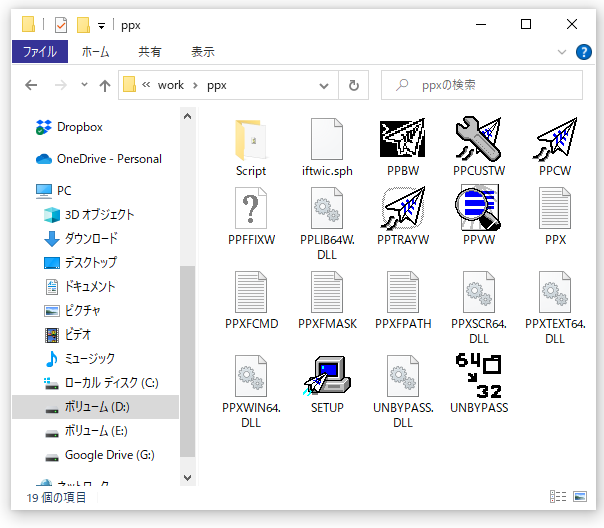
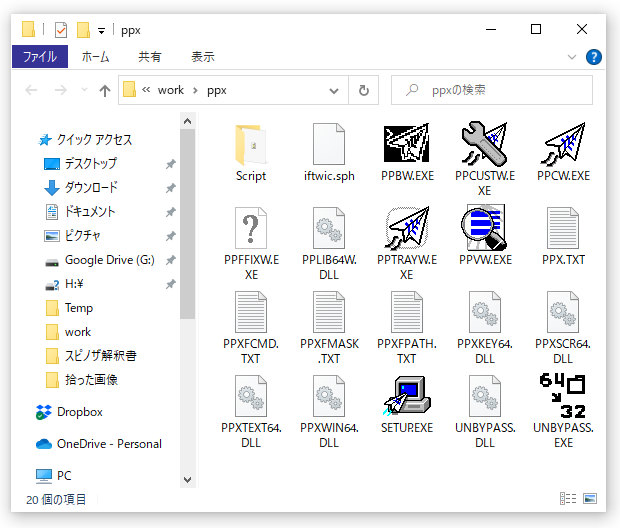
微修正

Changed region(s): [[0.0, 0.0, 1.0, 0.9697]]

diff --git a/my_collections/_advanced/a3.md b/my_collections/_advanced/a3.md
@@ -1,7 +1,7 @@
 ---
 title: アウトラインプロセッサ化
 date: 2022-11-19
-layout: history
+layout: advanced
 last_modified_at: 
 ---
 
@@ -9,25 +9,69 @@ last_modified_at:
 
 以下の二つのファイルをScriptフォルダに保存する。
 
-_DisplayOrderComment.js_
+_MakeOutlineComment.js_
 ```text
 //!*script
-
-// 表示順にコメントファイルを作成
+// カレントディレクトリに一行目とファイルパスを対応させたコメントファイル(00_INDEX.txt)を作成
+// アウトラインプロセッサ用。行頭の空白を維持し、エントリの順番通りに書き出す
+// 2022-11-22更新
 
 var strLine = "\r\n";
 
 for (var a = PPx.Entry.AllEntry; !a.atEnd(); a.moveNext() ){
-  if (!a.Comment.match(/^$/i)){
+  // フォルダの処理
+  if (a.Attributes & 16 && a.Comment==""){
+    strLine += PPx.Entry(i).Name + "\t" + PPx.Entry(i).Name + "\r\n";
+  } else if (a.Attributes & 16){
     strLine += a.Name + "\t" + a.Comment + "\r\n";
+  // .howmファイルへの処理
+  } else if (a.Name.match(/.howm$/i)){
+    var dir = PPx.Extract('%1');
+    var entryName = a.Name;
+    var f = dir + "\\" + entryName;
+    // 一行目を読み込む。文字化けする場合は"sjis"を"utf-8"に
+    var s = readFile(f, "sjis");
+    var title = s.slice( 2,40 );
+    // コメントの最初に空白があればそれを反映
+    if (a.Comment.match(/^　+/)) {
+      var heading = a.Comment.match(/^　+/);
+      strLine += a.Name + "\t" + heading + title + "\r\n";
+    } else {
+      strLine += a.Name + "\t" + title + "\r\n";
+    }
   }
 }
+
+if (strLine == "\r\n"){
+  PPx.Quit();
+} else {
+  strLine += '00_INDEX.txt\t *** COMMENT FILE ***';
+}
+
+//PPx.Echo(strLine);
 
 // 00_INDEX.txtに書き込み
 var fs = PPx.CreateObject("Scripting.FileSystemObject");
 var f = fs.OpenTextFile("00_INDEX.txt", 2, true, -1); // unicodeで書き込み
 f.Write(strLine);
 f.Close();
+
+// ファイルの一行目を読み込む関数
+function readFile(fname, charset) {
+  if (charset == undefined) {
+    charset = "_autodetect_all";
+  }
+  var adTypeBinary = 1, adTypeText = 2;
+  var adReadAll = -1,   adReadLine = -2;
+  var s = new ActiveXObject("ADODB.Stream");
+  s.Type = adTypeText;
+  s.charset = charset;
+  s.Open();
+  s.LoadFromFile(fname);
+  var text = s.ReadText(adReadLine);
+  s.Close();
+  return text;
+}
 ```
 
 _OutlineSort.js_
@@ -80,7 +124,7 @@ KC_main = { ; PPcメイン窓
 ^\RIGHT ,*comment "　%*comment"
 ^\DOWN = @DEL @INS @DOWN
 ^\UP = @UP @DEL @INS
-F6    ,*script %0\Script\DisplayOrderComment.js
+F7    ,*script %0\Script\MakeOutlineComment.js
 COMMENTEVENT1 ,*script %0Script\OutlineSort.js
 }
 
@@ -93,11 +137,11 @@ MC_sort = {
 
 ![拡張ソート1]({{ "/assets/images/advanced02.png" | relative_url }})
 
-[H]を押し、出てきたウィンドウに`*diroption -thisbranch cmd:"*script %0\Script\title2comment.js %%: *setcust XC_cwrt= 0"`を入力して実行する。これで、コメントファイルが自動作成されないようになる。
+[H]を押し、出てきたウィンドウに`*diroption -thisbranch cmd:"*setcust XC_cwrt= 0"`を入力して実行する。これで、このフォルダ以下ではコメントファイルが自動作成されなくなる。後でこの設定を解除したくなったら、`*diroption -thisbranch cmd:""`とすればいい。
+以上で準備は完了だ。エントリ位置やレベル調整はカーソルキーで行う。
 
-エントリ位置やレベル調整はカーソルキーで行う。
+- [Ctrl+Shift+カーソル上下]	：エントリ位置変更
+- [Ctrl+Shift+カーソル左右]	：エントリレベル変更
+- [F7]	:変更の保存
 
-- Ctrl+Shift+カーソル上下：エントリ位置変更
-- Ctrl+Shift+カーソル左右：エントリレベル変更
 
-エントリの位置やレベルの変更が終わったらF6を押し、コメントファイルを作成する。

diff --git a/my_collections/_advanced/a4.md b/my_collections/_advanced/a4.md
@@ -1,0 +1,54 @@
+---
+title: タイトルを自動更新
+date: 2022-11-19
+layout: advanced
+last_modified_at: 
+---
+
+howmファイルを新規作成した際、自動でタイトル表示を更新するようにする。
+以下をScriptフォルダに保存する。
+
+_title2comment.js_
+
+```text
+//!*script
+
+// コメントのないhowmファイルの一行目をコメントに
+
+for (var a = PPx.Entry.AllEntry; !a.atEnd(); a.moveNext() ){
+  // フォルダを除外
+  if (a.Attributes & 16){
+    continue;
+  // .howmファイルへの処理
+  } else if (a.Name.match(/.howm$/i)){
+    var dir = PPx.Extract('%1');
+    var entryName = a.Name;
+    var f = dir + "\\" + entryName;
+    // 一行目を読み込む。文字化けする場合は"sjis"を"utf-8"に
+    var s = readFile(f, "sjis");
+    // 2~40字を切り取ったものをコメントに
+    a.Comment = s.slice( 2,40 );
+  }
+}
+
+// ファイルの一行目を読み込む関数
+function readFile(fname, charset) {
+  if (charset == undefined) {
+    charset = "_autodetect_all";
+  }
+  var adTypeBinary = 1, adTypeText = 2;
+  var adReadAll = -1,   adReadLine = -2;
+  var s = new ActiveXObject("ADODB.Stream");
+  s.Type = adTypeText;
+  s.charset = charset;
+  s.Open();
+  s.LoadFromFile(fname);
+  var text = s.ReadText(adReadLine);
+  s.Close();
+  return text;
+}
+```
+
+フォルダで[H]を押し、出てきたウィンドウに`*diroption -thisbranch cmd:"*script %0Script\title2comment.js %%: *setcust XC_cwrt= 2"`を入力して実行する。
+自動更新を解除したい場合は`*diroption -thisbranch cmd:""`とする。
+title2comment.jsはtitle2comment_all.jsと違い、新規ファイルに対してのみ動作する。一行目のタイトルを変更し、それをタイトル表示に反映したいという場合は、title2comment_all.jsを使おう。

diff --git a/ppx.md b/ppx.md
@@ -12,6 +12,7 @@ permalink: /ppx/
 - PPx Script Module
 - PPx Text Module
 - PPx WIndow Module
+- PPx Key Module
 
 をダウンロードする。
 
@@ -26,6 +27,7 @@ permalink: /ppx/
 - PPXSCR.DLL / PPXSCR64.DLL
 - PPXTEXT.DLL / PPXTEXT64.DLL
 - PPXWIN.DLL / PPXWIN64.DLL
+- PPXKEY.DLL / PPXKEY64.DLL
 
 を入れる。PPX○○64.DLLが64bit版だ。また、Scriptという名前で空フォルダを作成する。
 
@@ -33,7 +35,7 @@ permalink: /ppx/
 
 Scriptフォルダに以下のファイルを入れる。
 
-_title2comment.js_
+_title2comment_all.js_
 
 ```text
 //!*script
@@ -44,7 +46,7 @@ for (var a = PPx.Entry.AllEntry; !a.atEnd(); a.moveNext() ){
   // フォルダを除外
   if (a.Attributes & 16){
     continue;
-  // .howmかつコメントがないファイルへの処理
+  // .howmかつコメントのないファイルへの処理
   } else if (a.Name.match(/.howm$/i) && a.Comment.match(/^$/i)){
     var dir = PPx.Extract('%1');
     var entryName = a.Name;
@@ -80,6 +82,7 @@ function readFile(fname, charset) {
 {% raw %}
 KC_main    = {	; PPcメイン窓
 E ,%ME_editor
+F6    ,*script %0\title2Comment_all.js
 ^R ,*comment "%ee%"コメントの編集"%{%*comment%|%}"
 ^N ,*ppememo
 }

diff --git a/howtouse.md b/howtouse.md
@@ -22,8 +22,7 @@ PPEでの操作は以下。
 
 ## タイトル表示
 
-[;]で表示形式メニューを表示し、「このパス以降」「howmtitle」を選択する。
-フォルダで[H]を押し、出てきたウィンドウに`*diroption -thisbranch cmd:"*script %0Script\title2comment.js %%: *setcust XC_cwrt= 2"`を入力して実行する。自動更新を解除したい場合は`*diroption -thisbranch cmd:""`とする。
+[;]で表示形式メニューを表示し、「このパス以降」「howmtitle」を選択したあと、[F6]を押す。
 
 ![タイトル表示]({{ "/assets/images/howtouse02.png" | relative_url }})
 

diff --git a/author.md b/author.md
@@ -14,3 +14,9 @@ tukasa
 - [つかさの哲学原理](https://tukasa.github.io/philosophy/)
 - [hoehoesoft](https://sites.google.com/site/hoehoesoft2/)
 - [つかさのxops日記](http://xopstukasa.blogspot.com/)
+
+:name_badge:
+- 2022/11/19 github pagesへ移行
+- 2021/06/05 [新バージョンのGoogleサイト](https://sites.google.com/site/moesystem/)に移行
+- 2016/11/30 大幅に更新
+- 2010/07/30 [旧サイト](https://sites.google.com/site/moemethod/)から移行

diff --git a/link.md b/link.md
@@ -21,7 +21,3 @@ permalink: /link/
 
 - [Memo on the Electron 2.0 (2016/11/19)]({{ "/assets/pdf/MoE2.0.pdf" | relative_url }})
 
-## moe旧サイト
-
-- [Memo on the Electron(旧サイト)](https://sites.google.com/site/moesystem/)
-- [Memo on the Electron(旧旧サイト)](https://sites.google.com/site/moemethod/)

diff --git a/my_collections/_advanced/a2.md b/my_collections/_advanced/a2.md
@@ -1,7 +1,7 @@
 ---
 title: DでDustフォルダに移動
 date: 2022-11-19
-layout: history
+layout: advanced
 last_modified_at: 
 ---
 

diff --git a/my_collections/_advanced/a1.md b/my_collections/_advanced/a1.md
@@ -1,7 +1,7 @@
 ---
 title: xyzzyをエディタに
 date: 2022-11-19
-layout: history
+layout: advanced
 last_modified_at: 
 ---
 
